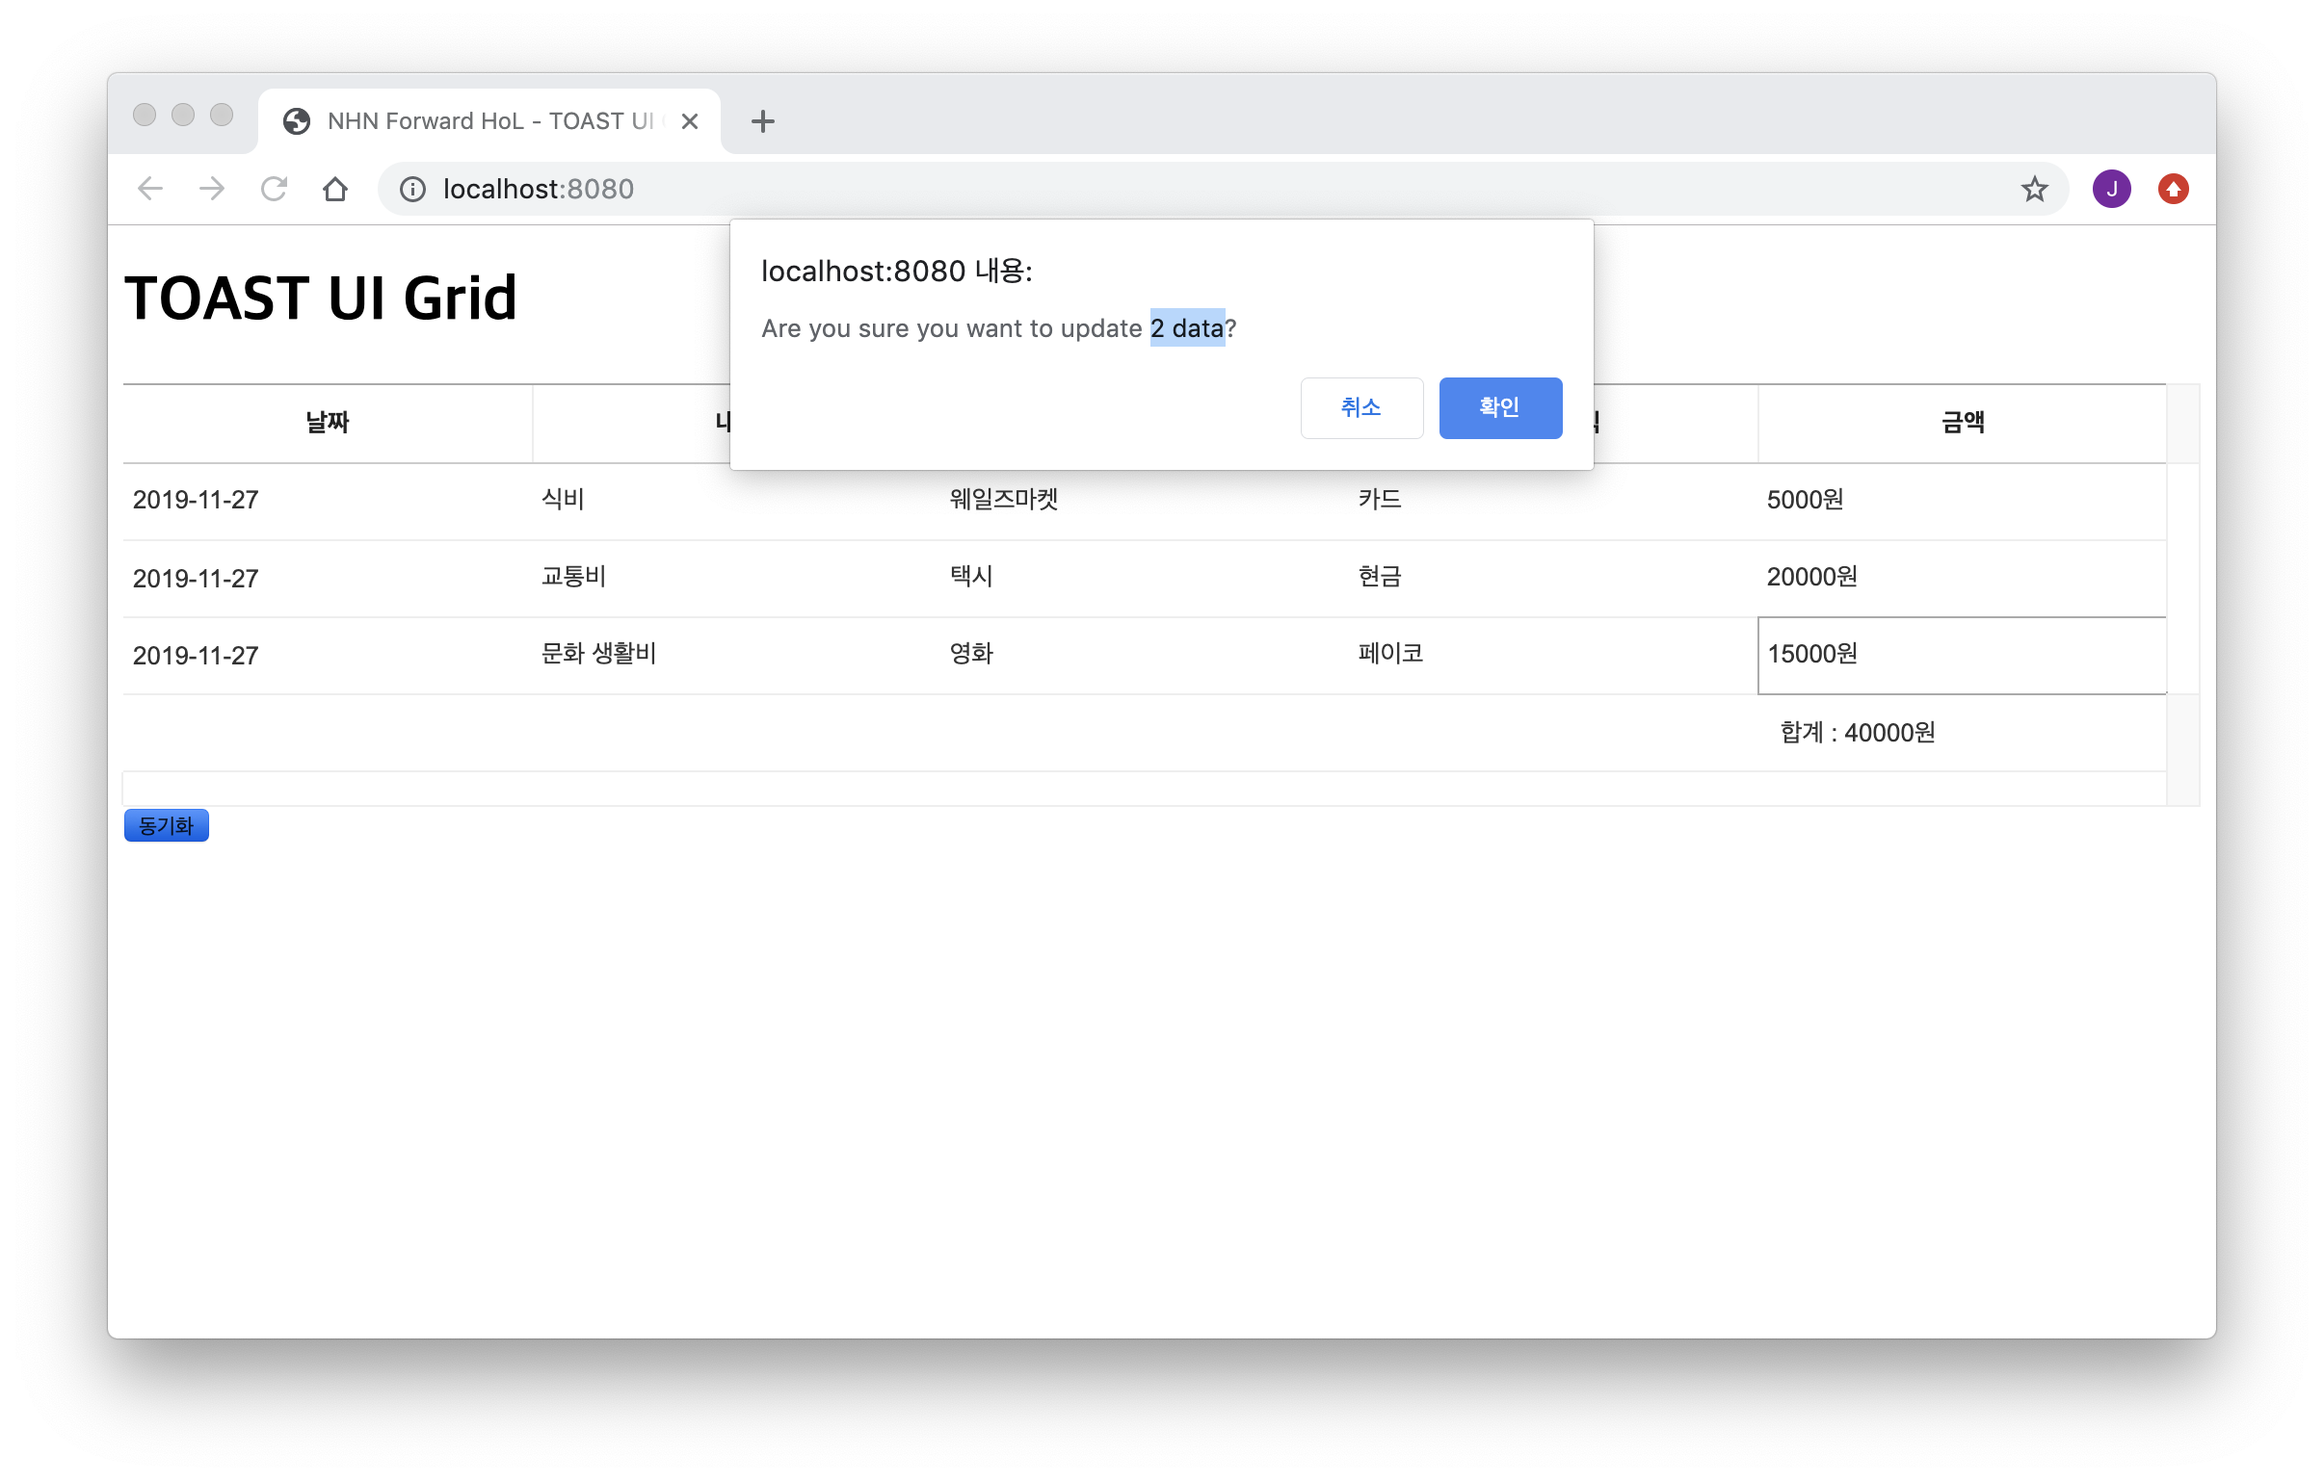
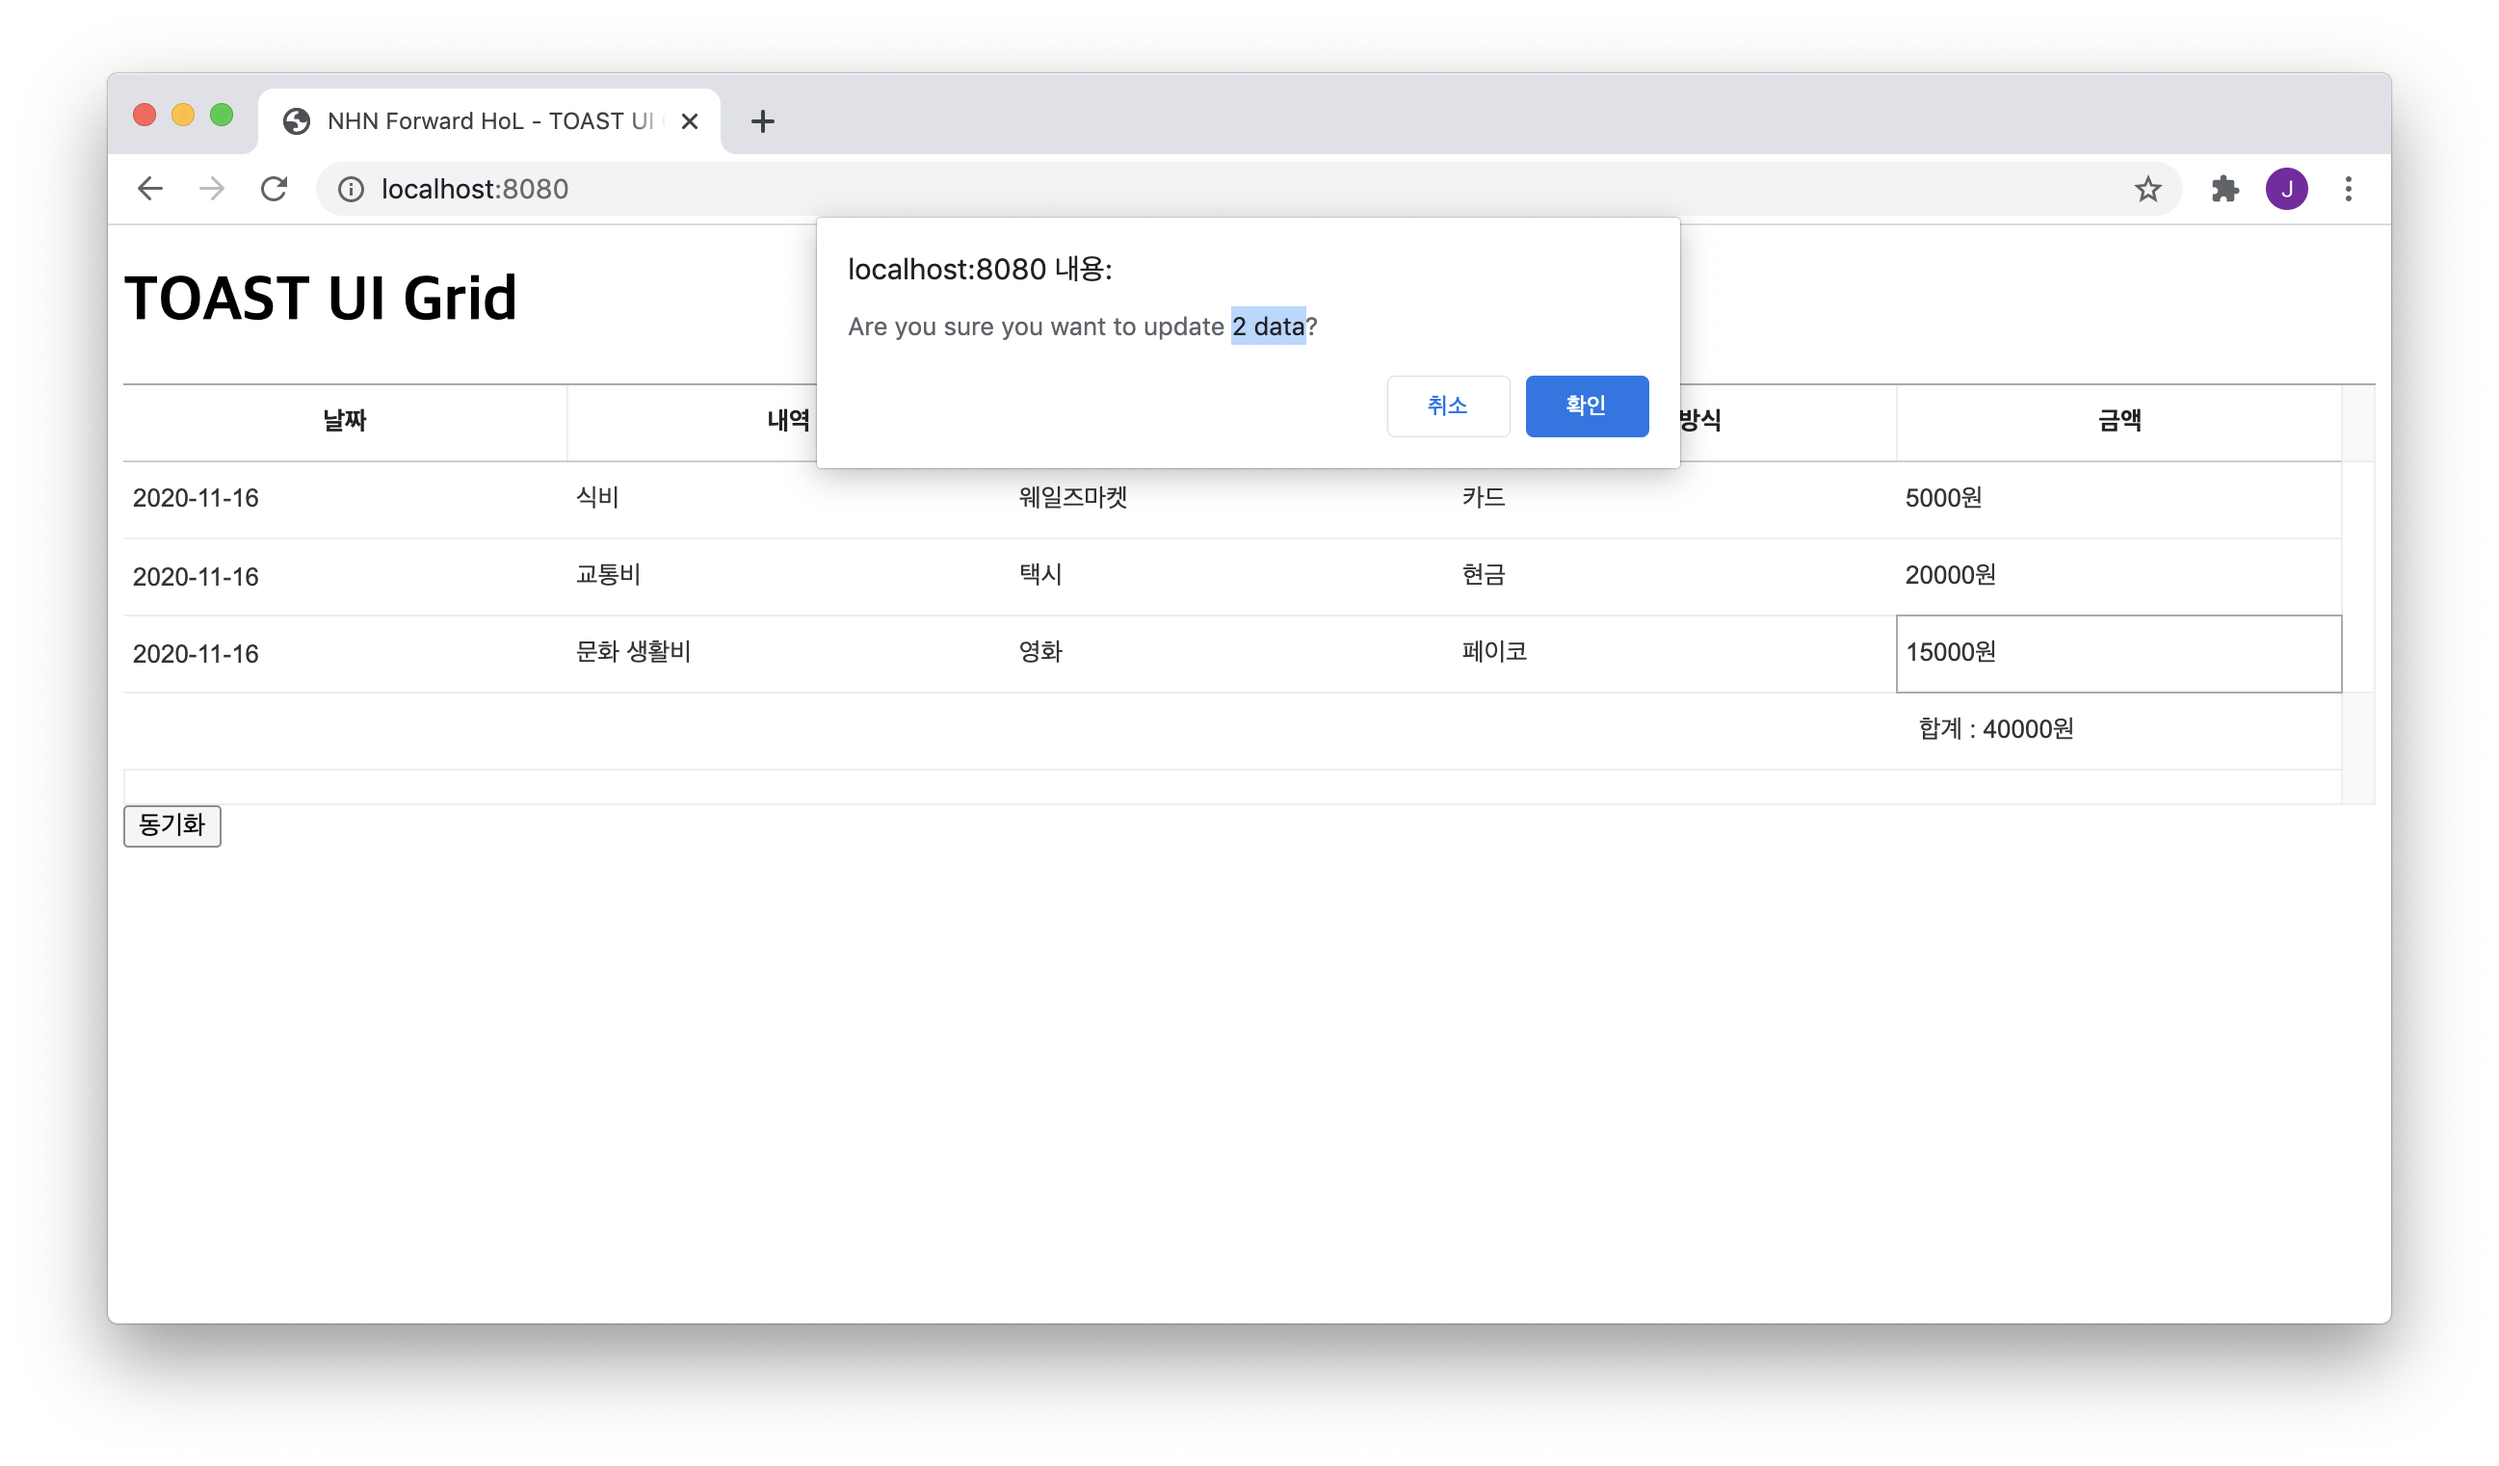
fix: update date and express server bug

diff --git a/src/server/app.js b/src/server/app.js
@@ -7,7 +7,7 @@ const port = 3000;
 const contents = [
   {
     id: 1,
-    date: '2019-11-27',
+    date: '2020-11-16',
     category1: '1',
     category2: '웨일즈마켓',
     payment: '2',
@@ -15,7 +15,7 @@ const contents = [
   },
   {
     id: 2,
-    date: '2019-11-27',
+    date: '2020-11-16',
     category1: '3',
     category2: '택시',
     payment: '1',
@@ -23,7 +23,7 @@ const contents = [
   },
   {
     id: 3,
-    date: '2019-11-27',
+    date: '2020-11-16',
     category1: '2',
     category2: '영화',
     payment: '3',
@@ -32,6 +32,7 @@ const contents = [
 ];
 
 app.use(bodyParser.urlencoded({extended: true}));
+app.use(bodyParser.json());
 app.use((req, res, next) => {
   res.header('Access-Control-Allow-Origin', '*');
   res.header('Access-Control-Allow-Methods', 'GET,PUT,POST,DELETE,PATCH,OPTIONS');

diff --git a/site/05.rst b/site/05.rst
@@ -137,7 +137,7 @@
 
     const rowData = [
       {
-        date: '2019-11-27',
+        date: '2020-11-16',
         category1: '1', // '식비' -> '1' 변경
         category2: '회사 편의점',
         payment: '3', // '페이코' -> '3' 변경

diff --git a/site/07.rst b/site/07.rst
@@ -50,6 +50,7 @@ DataSource 사용하기
 .. code-block:: javascript
 
     const dataSource = {
+      contentType: 'application/json',
       api: {
         readData: {
           url: 'http://localhost:3000/api/readData',

diff --git a/site/08.rst b/site/08.rst
@@ -17,6 +17,7 @@ Udate API 추가하기
 .. code-block:: javascript
 
     const dataSource = {
+      contentType: 'application/json',
       api: {
         readData: {
           url: 'http://localhost:3000/api/readData',

diff --git a/site/04.rst b/site/04.rst
@@ -60,7 +60,7 @@
 
     const rowData = [
       {
-        date: '2019-11-27',
+        date: '2020-11-16',
         category1: '식비',
         category2: '회사 편의점',
         payment: '페이코',
